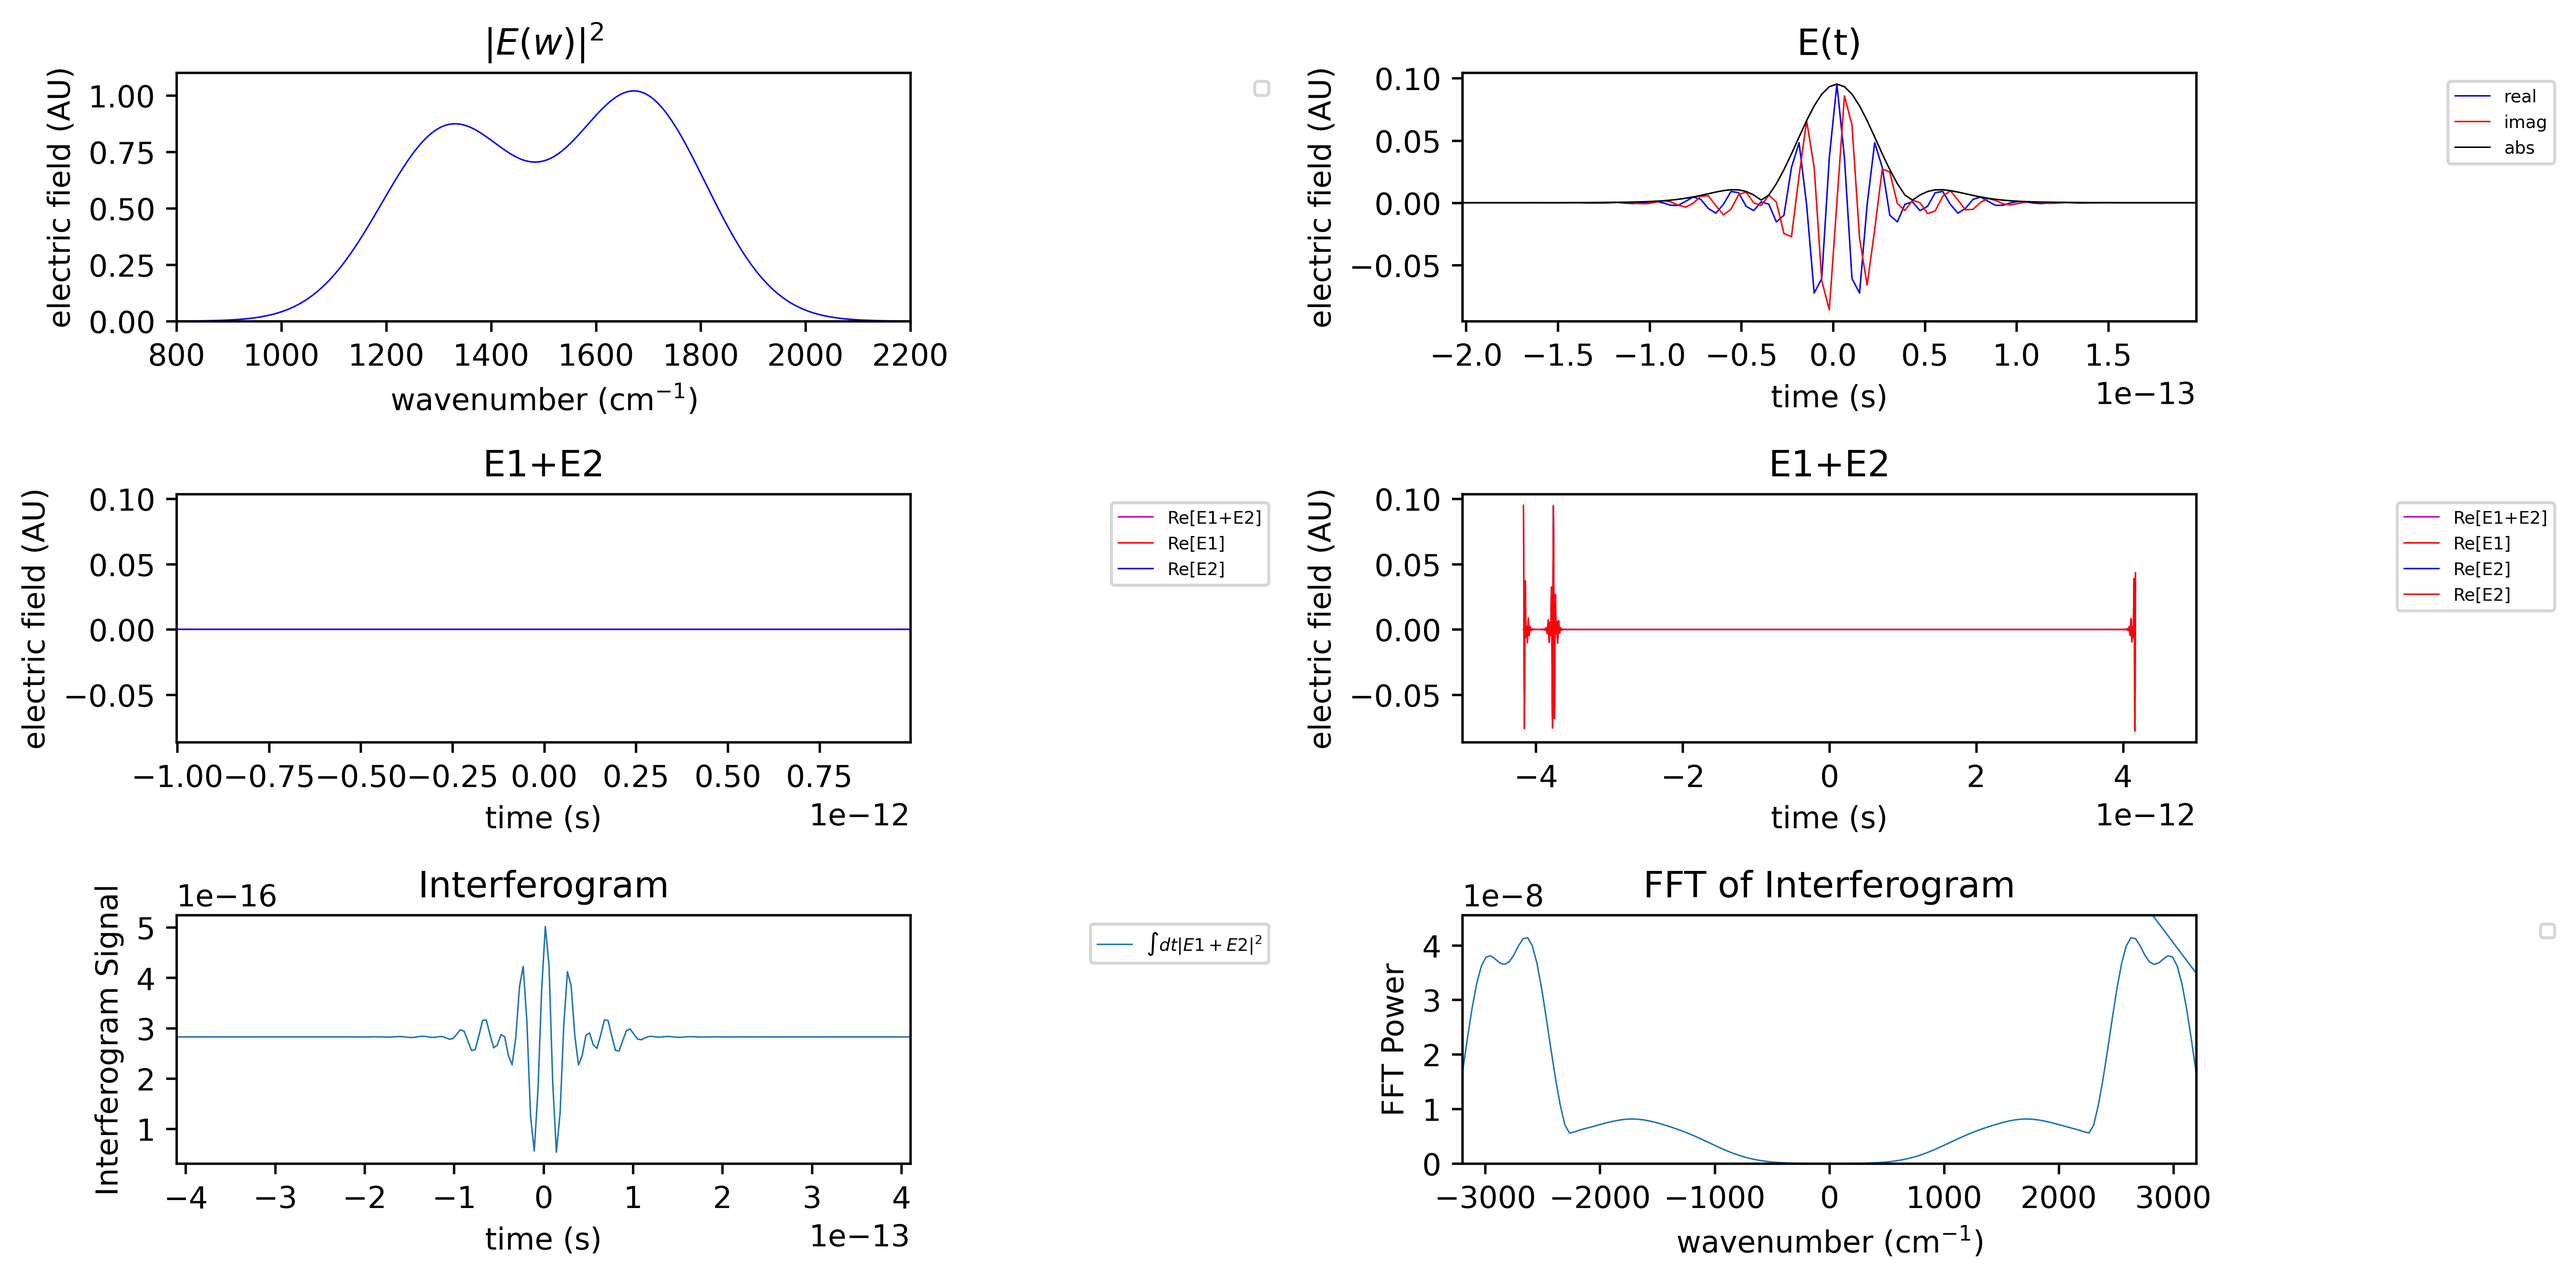
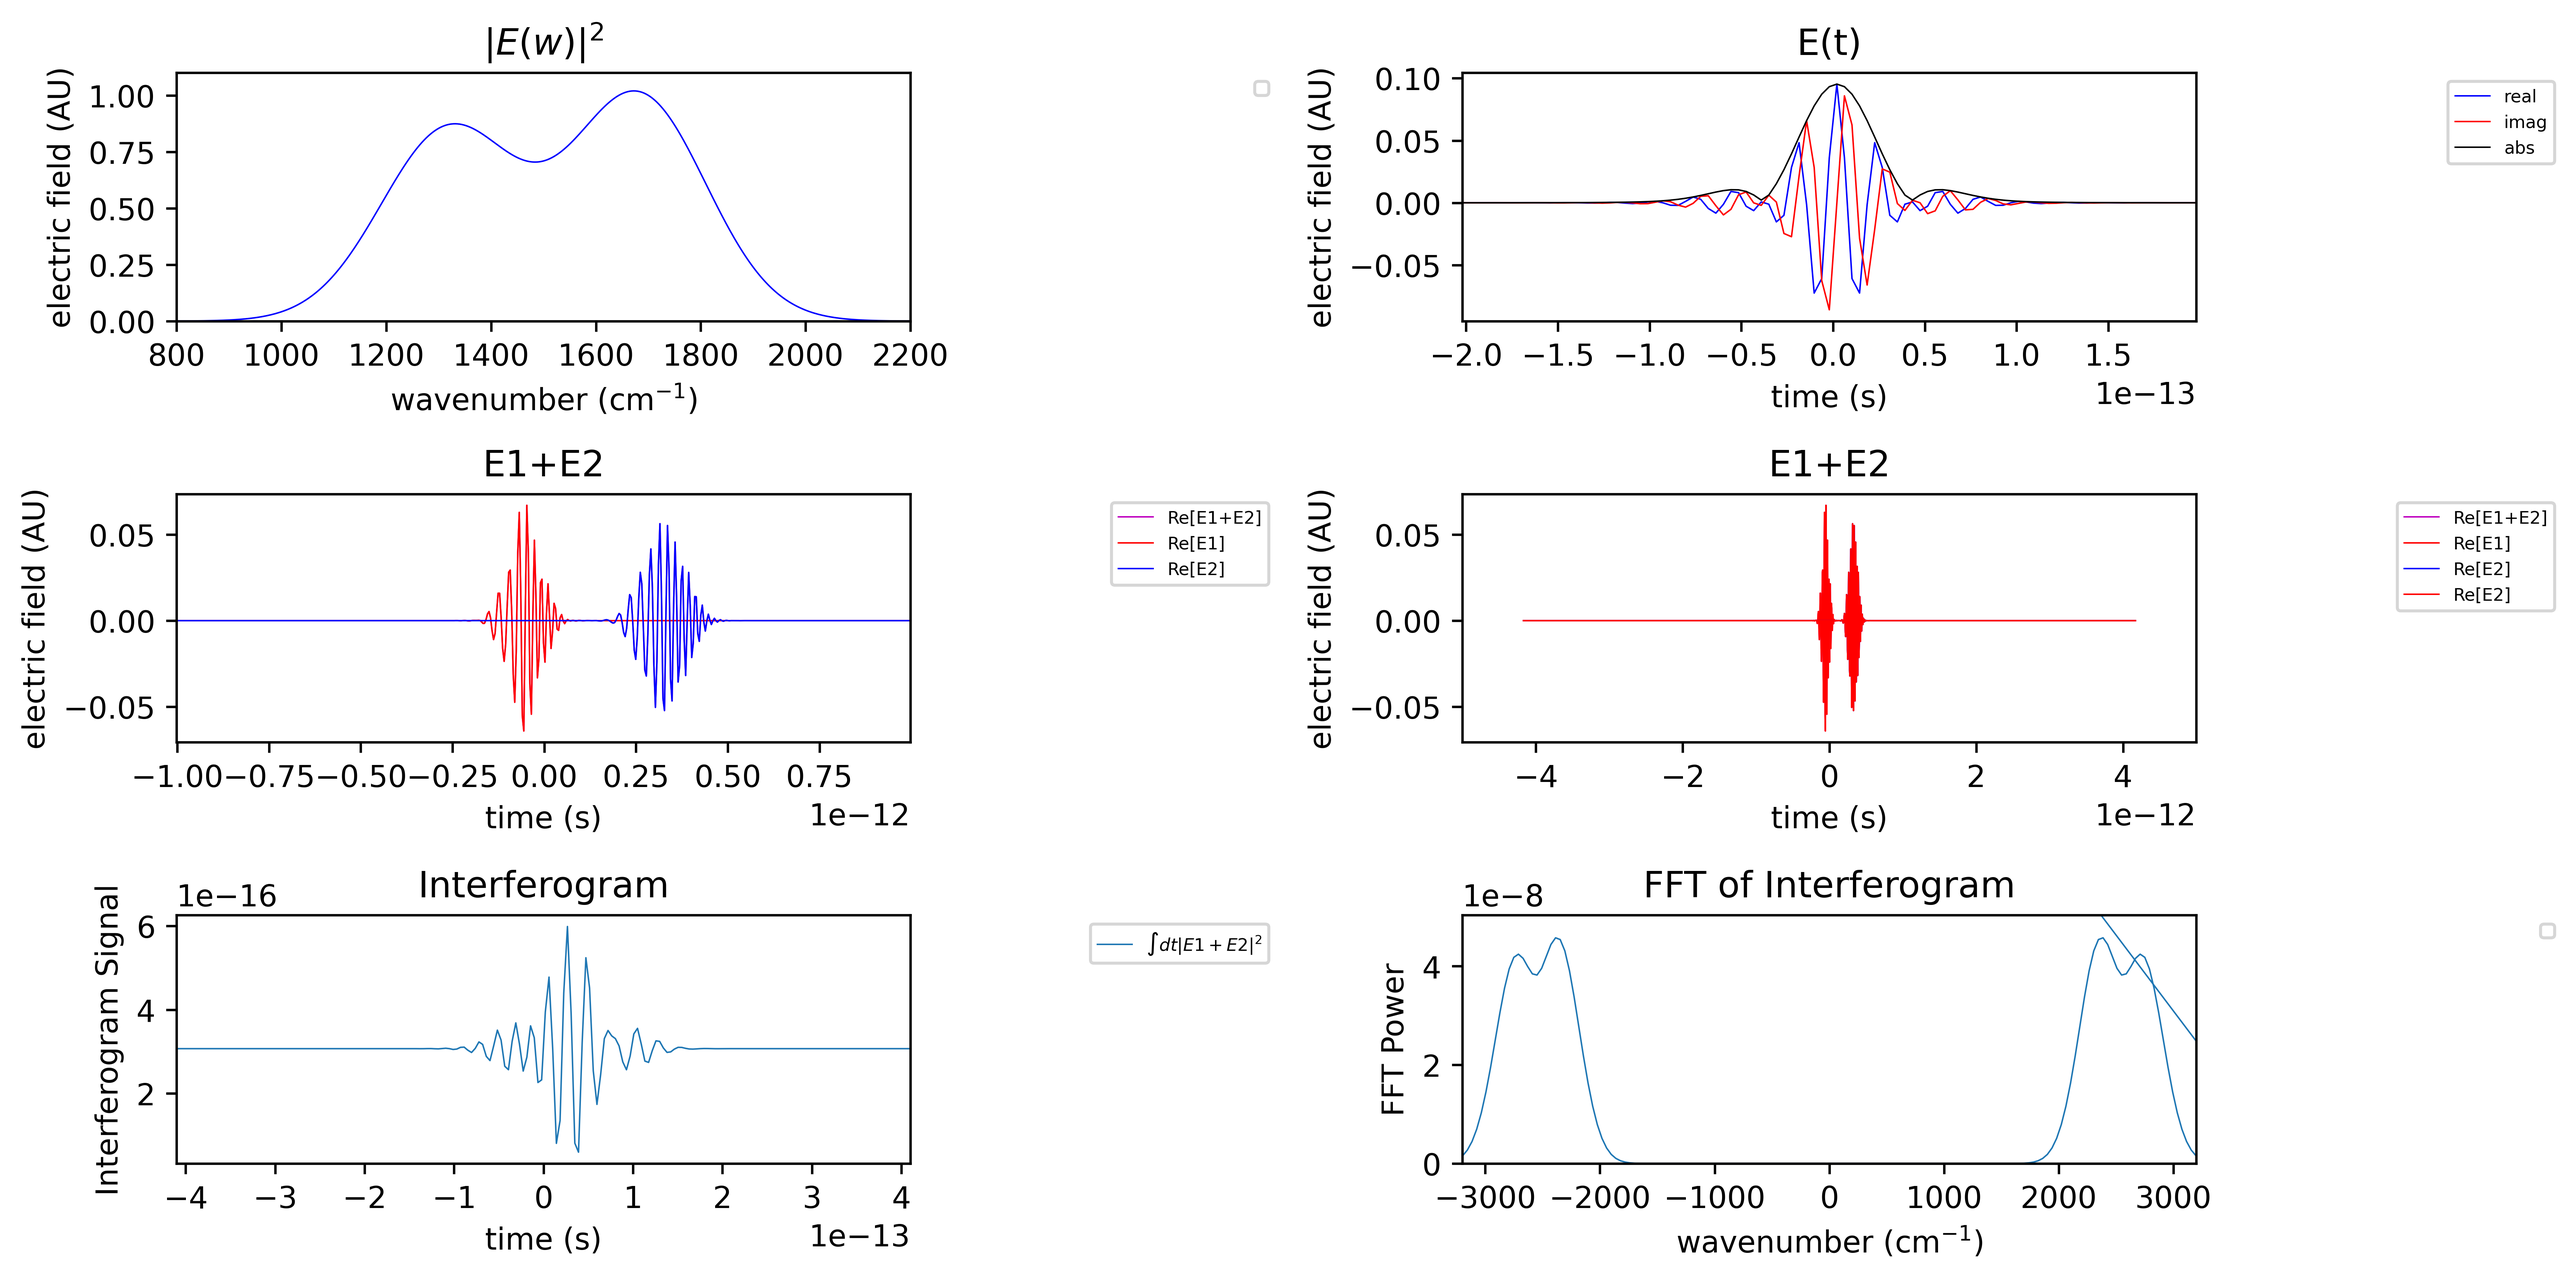
corrected FT expression

diff --git a/interf.py b/interf.py
@@ -72,10 +72,10 @@ def main(args):
     #Make chirped pulses
     c1=1.0e10#chirp for arm1
     c2=1.5e10#chirp for arm2
-    sig_1=np.multiply(sig_t, np.exp(-1j*(c1*np.multiply(w,t)+c1*np.multiply(w,t**2))))
-    sig_1 = np.real(np.fft.fftshift(sig_1))
-    sig_2_0=np.multiply(sig_t, np.exp(-1j*(c2*np.multiply(w,t)+c2*np.multiply(w,t**2))))
-    sig_2_0 = np.real(np.fft.fftshift(sig_2_0))
+    sig_1=np.fft.fftshift(np.fft.ifft(np.multiply(np.sqrt(sig_w),np.exp(-1j*(c1*np.multiply(w,t)+c1*np.multiply(w,t**2))))))
+    sig_1 = np.real(sig_1)
+    sig_2_0 =np.fft.fftshift(np.fft.ifft(np.multiply(np.sqrt(sig_w),np.exp(-1j*(c2*np.multiply(w,t)+c2*np.multiply(w,t**2))))))
+    sig_2_0 = np.real(sig_2_0)
     
     ##Make third subplot
     #ax = fig.add_subplot(gs[1,0], title='E(t)')
